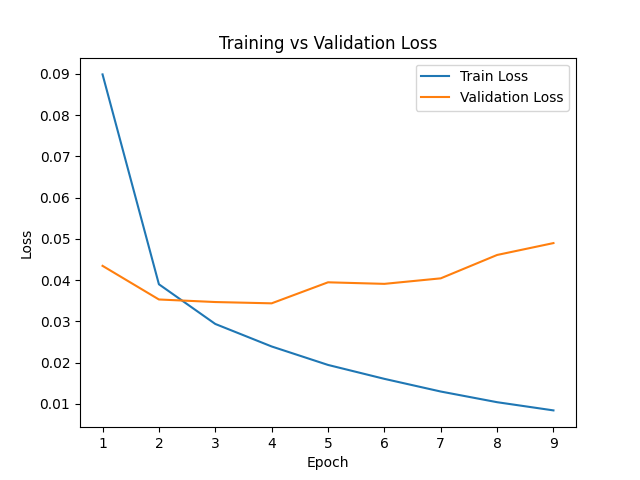
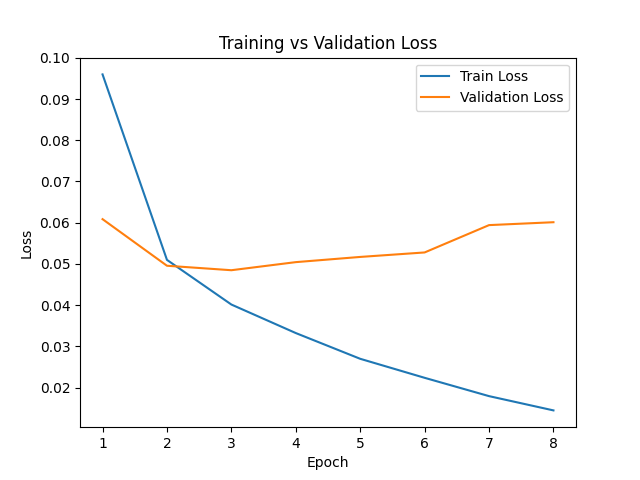
model with Dropout and Norm

diff --git a/model.py b/model.py
@@ -14,7 +14,8 @@ class PhoBERTMultiHead(nn.Module):
         self.phobert = AutoModel.from_pretrained(backbone_model_name)
 
         hidden_size = self.phobert.config.hidden_size
-
+        self.dropout = nn.Dropout(0.1)
+        self.norm = nn.LayerNorm(hidden_size)
         self.classifiers = nn.ModuleList(
             [
                 nn.Linear(hidden_size, num_sentiments)
@@ -28,7 +29,10 @@ class PhoBERTMultiHead(nn.Module):
             input_ids=input_ids, attention_mask=attention_mask
         )
 
-        cls_output = outputs.pooler_output  # last_hidden_state[:, 0]
+        cls_output = outputs.last_hidden_state[:, 0]
+
+        cls_output = self.norm(cls_output)
+        cls_output = self.dropout(cls_output)
 
         logits = [classifier(cls_output) for classifier in self.classifiers]
 

diff --git a/live_test.py b/live_test.py
@@ -2,7 +2,7 @@ from load import load_model
 from preprocess import tokenizer, rdrsegmenter
 from config import idx2topic, idx2sentiment
 
-check_point = "absa-training-084e5eb_vnsf-44.pth"
+check_point = "absa-training-5111d82_vnsf-44.pth"
 model = load_model(check_point)
 model.eval()
 
@@ -50,7 +50,7 @@ model.eval()
 # ------------------------------------------
 
 
-test_sentence = "thầy dạy không có đủ chuyên môn, dạy sai kiến thức ."
+test_sentence = "thầy dạy không có đủ chuyên môn"
 
 dot_separated_segmented_sentences = rdrsegmenter.word_segment(test_sentence)
 test_segmented_sentence = " ".join(dot_separated_segmented_sentences)

diff --git a/data.py b/data.py
@@ -48,8 +48,6 @@ def preprocess_function(examples):
 
     labels = []
     for topic, sentiment in zip(examples["topic"], examples["sentiment"]):
-        # topic: 0, sentiment: 2
-
         aspect_labels = [sentiment2idx["none"]] * len(idx2topic)
         aspect_labels[topic] = sentiment
         labels.append(aspect_labels)

diff --git a/calculate_metrics.py b/calculate_metrics.py
@@ -15,7 +15,7 @@ from load import load_model
 from preprocess import tokenizer
 
 DEVICE = "cuda" if torch.cuda.is_available() else "cpu"
-CHECKPOINT = "absa-training-084e5eb_vnsf-44.pth"
+CHECKPOINT = "absa-training-5111d82_vnsf-44.pth"
 model = load_model(CHECKPOINT)
 print("Model loaded!")
 

diff --git a/train.py b/train.py
@@ -4,7 +4,7 @@ import json
 import torch
 from torch.utils.data import DataLoader, Subset
 
-from transformers import DataCollatorWithPadding, AutoTokenizer
+from transformers import DataCollatorWithPadding
 
 from config import *
 from data import train_dataset, val_dataset
